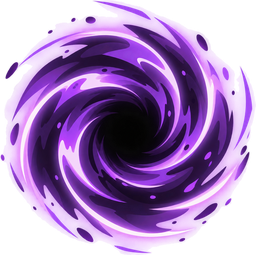
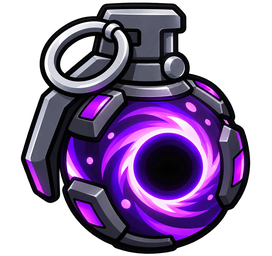
Website: new Black Hole Grenade art, 4 s grenade fuses, smaller flashbang radius, gameplay video placeholder (coming soon)

diff --git a/docs/weapons.js b/docs/weapons.js
@@ -47,30 +47,30 @@ window.FF_WEAPONS = [
   { name: "Grenade Launcher", png: "weapon_grenade_launcher", group: "boom", size: 80, dmg: 70, cd: 0.75, ammo: 6, kb: 1300, recoil: 520, speed: 1250, radius: 175, fuse: 4.0, sub: "launch", weight: 0.8,
     info: "Lobs grenades in an arc. They bounce and roll, and blow up on their second hit on the floor.",
     stats: [["Damage", "70", 0.70], ["Fire rate", "1.3 / S", 0.23], ["Blast Radius", "175 PX", 0.62], ["Ammo", "6", 0.25]] },
-  { name: "Grenades", png: "weapon_grenades", group: "boom", size: 22, dmg: 60, cd: 0.7, ammo: 3, kb: 1100, speed: 950, radius: 160, fuse: 1.6, sub: "frag", weight: 1.0,
+  { name: "Grenades", png: "weapon_grenades", group: "boom", size: 22, dmg: 60, cd: 0.7, ammo: 3, kb: 1100, speed: 950, radius: 160, fuse: 4.0, sub: "frag", weight: 1.0,
     info: "Hold to charge a harder throw (it cooks while you hold), release to throw. Goes off on the 2nd bounce.",
-    stats: [["Damage", "60", 0.60], ["Fuse Timer", "1.6 S", 0.40], ["Blast Radius", "160 PX", 0.57], ["Ammo", "3", 0.20]] },
-  { name: "Sticky Bomb", png: "weapon_sticky_bomb", group: "boom", size: 22, dmg: 55, cd: 0.7, ammo: 3, kb: 1000, speed: 950, radius: 150, fuse: 2.0, sub: "sticky", weight: 0.8,
+    stats: [["Damage", "60", 0.60], ["Fuse Timer", "4.0 S", 1.0], ["Blast Radius", "160 PX", 0.57], ["Ammo", "3", 0.20]] },
+  { name: "Sticky Bomb", png: "weapon_sticky_bomb", group: "boom", size: 22, dmg: 55, cd: 0.7, ammo: 3, kb: 1000, speed: 950, radius: 150, fuse: 4.0, sub: "sticky", weight: 0.8,
     info: "Sticks to walls and fighters, then explodes.",
-    stats: [["Damage", "55", 0.55], ["Fuse Timer", "2.0 S", 0.50], ["Blast Radius", "150 PX", 0.54], ["Ammo", "3", 0.20]] },
-  { name: "Cluster Grenade", png: "weapon_cluster_grenade", group: "boom", size: 30, dmg: 35, cd: 0.7, ammo: 2, kb: 900, speed: 950, radius: 130, fuse: 1.6, sub: "cluster", weight: 0.8,
+    stats: [["Damage", "55", 0.55], ["Fuse Timer", "4.0 S", 1.0], ["Blast Radius", "150 PX", 0.54], ["Ammo", "3", 0.20]] },
+  { name: "Cluster Grenade", png: "weapon_cluster_grenade", group: "boom", size: 30, dmg: 35, cd: 0.7, ammo: 2, kb: 900, speed: 950, radius: 130, fuse: 4.0, sub: "cluster", weight: 0.8,
     info: "Bursts into five mini bombs.",
     stats: [["Damage", "35 x5", 0.80], ["Mini Bombs", "5 BOMBS", 1.0], ["Blast Radius", "130 PX", 0.46], ["Ammo", "2", 0.15]] },
   { name: "Impact Grenade", png: "weapon_impact_grenade", group: "boom", size: 22, dmg: 55, cd: 0.7, ammo: 3, kb: 1000, speed: 950, radius: 140, fuse: 3.0, sub: "impact", weight: 0.8,
     info: "Explodes the moment it touches anything.",
     stats: [["Damage", "55", 0.55], ["Detonation", "ON IMPACT", 1.0], ["Blast Radius", "140 PX", 0.50], ["Ammo", "3", 0.20]] },
-  { name: "Fire Grenade", png: "weapon_fire_grenade", group: "boom", size: 22, dmg: 18, cd: 0.7, ammo: 2, kb: 500, speed: 950, radius: 175, fuse: 1.6, zone_time: 4.0, zone_dps: 16.0, sub: "fire", weight: 0.8,
+  { name: "Fire Grenade", png: "weapon_fire_grenade", group: "boom", size: 22, dmg: 18, cd: 0.7, ammo: 2, kb: 500, speed: 950, radius: 175, fuse: 4.0, zone_time: 4.0, zone_dps: 16.0, sub: "fire", weight: 0.8,
     info: "Bursts into flames: the ground around it burns for 4 s and hurts anyone standing in it.",
     stats: [["Impact Dmg", "18", 0.25], ["Fire DPS", "16 / S", 0.64], ["Duration", "4.0 S", 0.67], ["Ammo", "2", 0.15]] },
-  { name: "Gas Grenade", png: "weapon_gas_grenade", group: "boom", size: 22, dmg: 0, cd: 0.7, ammo: 2, kb: 0, speed: 950, radius: 230, fuse: 1.6, zone_time: 6.0, zone_dps: 9.0, sub: "gas", weight: 0.7,
+  { name: "Gas Grenade", png: "weapon_gas_grenade", group: "boom", size: 22, dmg: 0, cd: 0.7, ammo: 2, kb: 0, speed: 950, radius: 230, fuse: 4.0, zone_time: 6.0, zone_dps: 9.0, sub: "gas", weight: 0.7,
     info: "Lets out a cloud of gas that lingers for 6 s: anyone inside slowly loses health.",
     stats: [["Cloud DPS", "9 / S", 0.45], ["Duration", "6.0 S", 0.75], ["Cloud Radius", "230 PX", 0.82], ["Ammo", "2", 0.15]] },
-  { name: "Black Hole Grenade", png: "weapon_black_hole_grenade", group: "boom", size: 26, dmg: 60, cd: 0.7, ammo: 2, kb: 1500, speed: 950, radius: 230, fuse: 1.4, pull: 1400, sub: "blackhole", weight: 0.7,
+  { name: "Black Hole Grenade", png: "weapon_black_hole_grenade", group: "boom", size: 26, dmg: 60, cd: 0.7, ammo: 2, kb: 1500, speed: 950, radius: 230, fuse: 4.0, pull: 1400, sub: "blackhole", weight: 0.7,
     info: "Sucks in fighters, weapons and crates hard, then blows up in the middle.",
     stats: [["Damage", "60", 0.60], ["Vortex Pull", "1400 PX", 1.0], ["Blast Radius", "230 PX", 0.82], ["Ammo", "2", 0.15]] },
-  { name: "Flashbang", png: "weapon_flashbang", group: "boom", size: 22, dmg: 0, cd: 0.7, ammo: 2, kb: 0, speed: 950, radius: 884, fuse: 3.5, blind: 3.5, sub: "flash", weight: 1.6,
+  { name: "Flashbang", png: "weapon_flashbang", group: "boom", size: 22, dmg: 0, cd: 0.7, ammo: 2, kb: 0, speed: 950, radius: 796, fuse: 4.0, blind: 3.5, sub: "flash", weight: 1.6,
     info: "No damage - a blinding flash that turns the screen white for everyone close by.",
-    stats: [["Blind Duration", "UP TO 3.5 S", 1.0], ["Blast Radius", "884 PX", 1.0], ["Fuse Timer", "3.5 S", 0.88], ["Ammo", "2", 0.15]] },
+    stats: [["Blind Duration", "UP TO 3.5 S", 1.0], ["Blast Radius", "796 PX", 1.0], ["Fuse Timer", "4.0 S", 1.0], ["Ammo", "2", 0.15]] },
   { name: "Mine Layer", png: "weapon_mine", group: "boom", size: 22, dmg: 70, cd: 0.3, ammo: 2, kb: 1200, radius: 210, arm: 0.7, weight: 0.9,
     info: "Throw it, it lands and arms, then blows when anyone comes close. Shoot it to set it off.",
     stats: [["Damage", "70", 0.70], ["Arm Time", "0.7 S", 0.70], ["Blast Radius", "210 PX", 0.75], ["Ammo", "2", 0.15]] },

diff --git a/docs/index.html b/docs/index.html
@@ -14,7 +14,7 @@
 <link rel="preconnect" href="https://fonts.gstatic.com" crossorigin>
 <link href="https://fonts.googleapis.com/css2?family=Montserrat:wght@500;700;800;900&display=swap" rel="stylesheet">
 <link rel="stylesheet" href="style.css?v=11">
-<link rel="stylesheet" href="pile.css?v=25">
+<link rel="stylesheet" href="pile.css?v=26">
 </head>
 <body class="pile-page">
 
@@ -39,6 +39,18 @@
       </a>
       <p class="intro-meta"><b class="js-ver">Latest version</b><span class="js-size"></span> · Android · Free</p>
     </div>
+  </div>
+</section>
+
+<!-- GAMEPLAY VIDEO: placeholder until the showcase is recorded -->
+<section class="sect video-sect" id="gameplay">
+  <div class="sect-head">
+    <h2>GAMEPLAY</h2>
+  </div>
+  <div class="video-soon" role="img" aria-label="Gameplay video showcase: coming soon">
+    <svg viewBox="0 0 64 64" aria-hidden="true"><circle cx="32" cy="32" r="28" fill="none" stroke="currentColor" stroke-width="4"/><path d="M26 20v24l20-12z" fill="currentColor"/></svg>
+    <b>COMING SOON</b>
+    <span>Gameplay showcase video</span>
   </div>
 </section>
 

diff --git a/docs/pile.css b/docs/pile.css
@@ -119,6 +119,18 @@ body.pile-page,
 .box-head p, .sect-head p { margin: 0; color: var(--muted); font-weight: 700; }
 .sect-head { margin-bottom: 20px; }
 
+/* ---------- gameplay video (placeholder) ---------- */
+.video-soon {
+  display: flex; flex-direction: column; align-items: center; justify-content: center; gap: 10px;
+  width: 100%; aspect-ratio: 16 / 9; max-height: 560px; padding: 24px; box-sizing: border-box;
+  border: 3px dashed rgba(255, 255, 255, .22); border-radius: 22px;
+  background: radial-gradient(ellipse at center, rgba(216, 38, 44, .2), rgba(17, 17, 21, .92) 70%);
+  text-align: center; color: #fff;
+}
+.video-soon svg { width: clamp(56px, 9vw, 92px); height: auto; opacity: .9; }
+.video-soon b { font-size: clamp(22px, 4vw, 40px); letter-spacing: .12em; }
+.video-soon span { color: var(--muted); font-weight: 700; }
+
 /* ---------- mystery block ---------- */
 .mystery-wrap {
   display: flex;

diff --git a/docs/pile.js b/docs/pile.js
@@ -285,8 +285,8 @@
     if (w.name === "Flashbang") {
       return [
         ["Blind Duration", "UP TO 3.5 S", 1.0],
-        ["Blast Radius", "884 PX", 1.0],
-        ["Fuse Timer", "3.5 S", 0.88],
+        ["Blast Radius", "796 PX", 1.0],
+        ["Fuse Timer", "4.0 S", 1.0],
         ["Ammo", "2", 0.33]
       ];
     }
